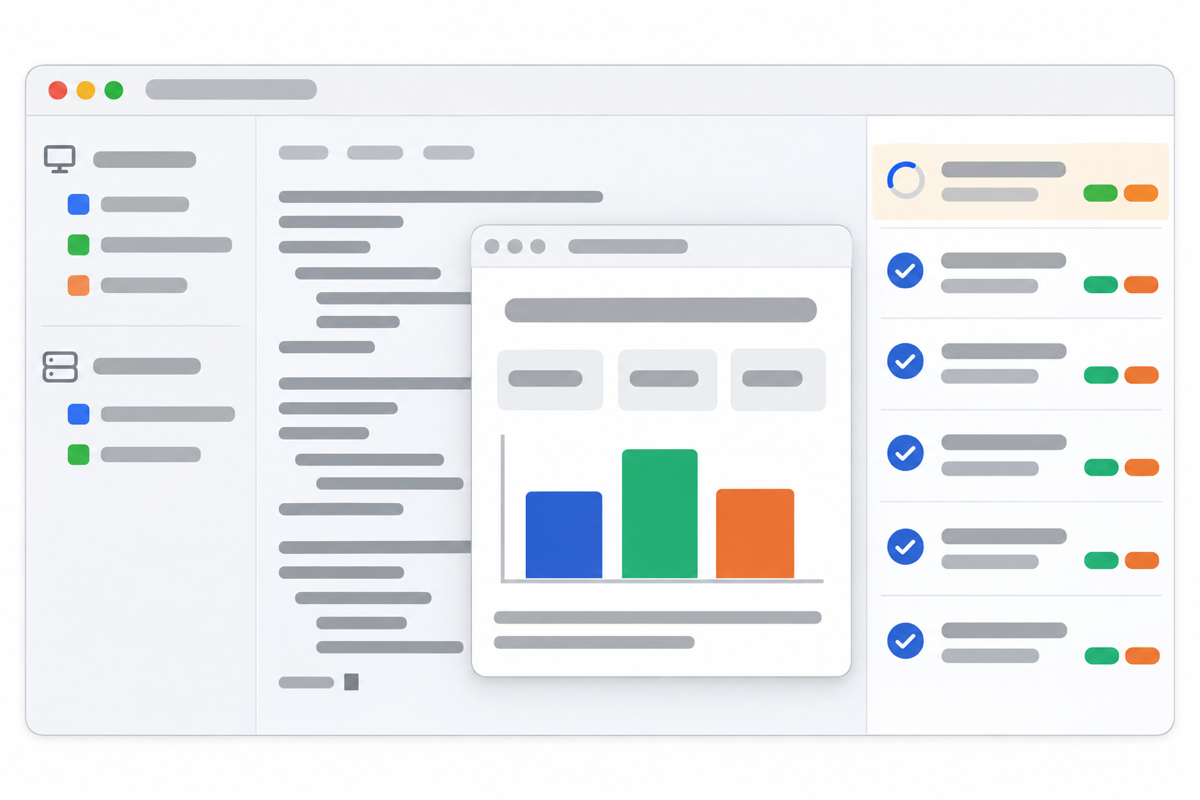
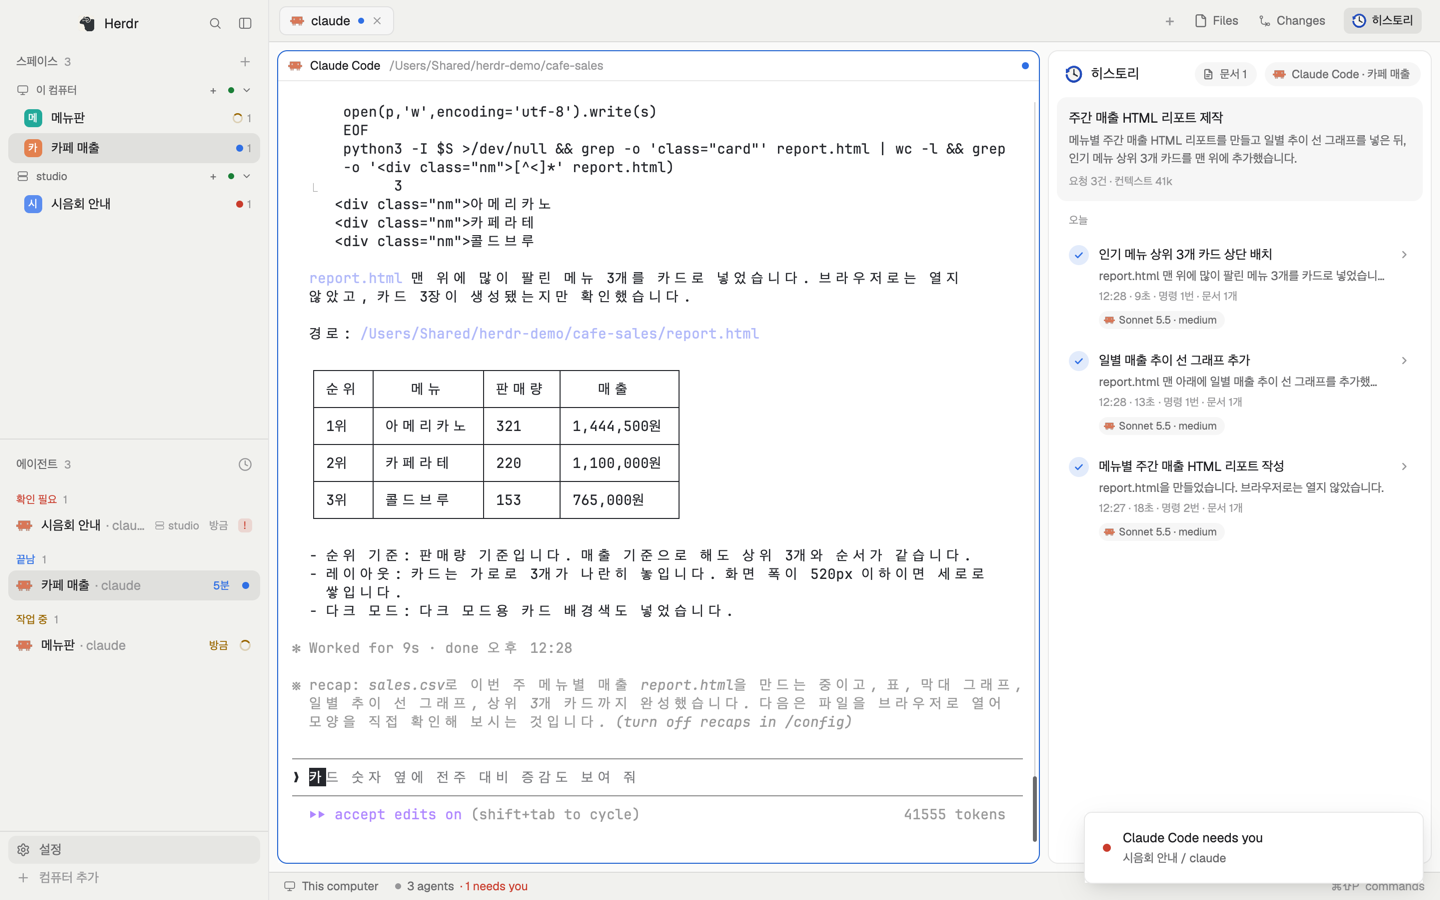
docs: README 를 실제 화면 녹화로 다시 정리
- 맨 위 그림과 기능 일러스트 4장을 지우고, 데모 폴더에서 찍은 GIF 3개(히스토리 · 요청 창 · 문서 보기)와 사이드바 그림을 넣음
- preview.png 를 실제 화면으로 바꿈
- README · CHANGELOG 문장을 다시 다듬음

diff --git a/README.md b/README.md
@@ -1,12 +1,8 @@
-<p align="center">
-  <img src="docs/images/hero.jpg" alt="히스토리 패널, 문서 보기, 한글 사이드바를 더한 Herdr 창" width="100%">
-</p>
-
 <h1 align="center">herdr-history-ko</h1>
 
 <p align="center">
-  Herdr 에서 에이전트에게 맡긴 일을 요청 단위로 되짚고,<br>
-  에이전트가 연 문서를 그 자리에서 보고, 여러 컴퓨터의 에이전트를 한 사이드바에서 나눠 보는 한국어 키트입니다.
+  터미널에서 코딩 에이전트를 돌리는 macOS 앱 Herdr에 히스토리 패널, 문서 보기, 한글 사이드바를 더하는 키트입니다.<br>
+  에이전트에게 맡긴 일을 요청별로 확인하고, 에이전트가 연 문서를 앱 안에서 바로 볼 수 있습니다.
 </p>
 
 <p align="center">
@@ -25,8 +21,6 @@
   <a href="#문제-해결">문제 해결</a>
 </p>
 
-> 이 문서의 그림은 기능을 설명하는 일러스트입니다. 실제 화면의 글자와 세부 모양은 다릅니다.
-
 ## 빠른 시작
 
 ```sh
@@ -35,47 +29,61 @@ cd herdr-history-ko
 sh install.sh
 ```
 
-설치가 끝나면 Herdr 의 레이아웃이 `history-sidebar` 로 바뀝니다. 원래 쓰던 레이아웃으로는 Herdr 에서 `ctrl-shift-l` 로 돌아갑니다.
-Herdr 안의 에이전트에게 「이 폴더의 install.sh 로 설치해 줘」라고 맡겨도 됩니다.
+설치가 끝나면 Herdr의 레이아웃이 `history-sidebar`로 바뀝니다. Herdr에서 `ctrl-shift-l`을 누르면 원래 쓰던 레이아웃으로 돌아갑니다.
+
+직접 명령을 입력하지 않고 Herdr의 에이전트에게 「이 폴더의 install.sh 로 설치해 줘」라고 맡겨도 됩니다.
 
 ## 기능
 
+아래 그림은 공개용 데모 폴더(`/Users/Shared/herdr-demo`)에서 찍은 실제 화면입니다. 「studio」는 녹화를 위해 같은 Mac에 따로 띄운 `hc`를 Herdr에 다른 컴퓨터로 추가한 것입니다. 문서와 기록을 가져오는 방식은 실제 원격 컴퓨터와 같습니다.
+
 ### 히스토리 패널
 
-<img src="docs/images/history.jpg" alt="요청 목록과 요청 창" width="100%">
+<img src="docs/media/history.gif" alt="매출 보고서 요청이 히스토리에 추가되고 상태가 바뀌는 화면" width="1440">
 
-지금 보고 있는 에이전트에게 보낸 요청을 하나씩 나눠 보여 줍니다. Claude Code · Codex · Antigravity 대화를 읽고, Herdr 에 추가한 다른 컴퓨터의 에이전트도 그 컴퓨터에서 읽어 옵니다.
+「카페 매출」 스페이스에서 Claude Code에 매출 보고서를 요청하고 상태 변화를 살펴보는 모습 (2.5배속)
 
-| 보이는 곳 | 내용 |
-| --- | --- |
-| 요청 줄 | 제목, 상태(진행 중 · 확인 기다림 · 끝남 · 중단함 · 멈춤), 보낸 시각, 걸린 시간, 명령 수, 바꾼 파일 수, 문서 수 |
-| 누가 했나 | 그 에이전트의 모델과 effort, 함께 일한 서브에이전트 · Codex · Antigravity · Claude |
-| 요청 창 | 요약 · 답변 · 진행 과정 · 바꾼 파일 · 보낸 글 탭, 실행 · 수정 · 읽기 비중을 보여 주는 작업 흐름 |
-| 맨 위 | 이 대화의 주제와 지금까지 한 일 한 문장, 요청 수, 컨텍스트 크기 |
+패널에는 지금 보고 있는 에이전트에게 보낸 요청이 한 줄씩 쌓입니다. Claude Code, Codex, Antigravity 대화를 읽고, Herdr에 추가한 다른 컴퓨터의 기록은 그 컴퓨터에서 가져옵니다.
 
-요청 제목과 요약은 내 컴퓨터의 Claude Code 로 만들고, 보낸 글 원문은 요청 창의 「보낸 글」 탭에만 둡니다.
-패널에서 `↑` `↓` 로 고르고 `Enter` 로 열며, 요청 창에서는 `←` `→` 로 앞뒤 요청을 보고 `Esc` 로 닫습니다.
+요청을 보내면 「진행 중」 항목이 추가되고, 명령 실행 승인을 기다릴 때는 「확인 기다림」으로 바뀝니다. 작업이 끝나면 「끝남」 상태가 되면서 이 컴퓨터의 Claude Code가 만든 제목과 한 줄 요약이 붙습니다.
+
+각 줄에는 제목과 상태 외에 보낸 시각, 걸린 시간, 명령 수, 바꾼 파일 수, 문서 수, 사용한 모델과 effort가 함께 표시됩니다. 상태에는 「중단함」과 「멈춤」도 있습니다. 패널 맨 위에서는 대화 주제와 지금까지 한 일을 정리한 한 문장, 요청 수와 컨텍스트 크기를 확인합니다.
+
+### 요청 창
+
+<img src="docs/media/request.gif" alt="요청 목록에서 요청 창을 열고 앞뒤 요청을 보는 화면" width="1440">
+
+목록에서 요청 하나를 열어 앞뒤 요청을 넘겨 봅니다.
+
+「누가 했나」에는 모델과 effort, 출력 토큰이 나옵니다. 서브에이전트나 Codex, Antigravity, Claude와 함께 일했다면 그 이름도 여기에 나옵니다. 작업 흐름 그래프는 실행, 수정, 읽기의 비중을 보여 줍니다.
+
+세부 내용은 「요약」, 「답변」, 「진행 과정」, 「바꾼 파일」, 「보낸 글」 탭으로 나뉩니다. 「요약」 탭에는 결론, 한 일, 확인한 것, 남은 것이 정리되고, 보낸 글 원문은 「보낸 글」 탭에서만 봅니다.
+
+패널에서는 `↑` `↓`로 요청을 고른 뒤 `Enter`로 열고, 요청 창에서는 `←` `→`로 앞뒤 요청을 오가며 `Esc`로 닫습니다.
 
 ### 문서 보기
 
-<img src="docs/images/docview.jpg" alt="다른 컴퓨터에서 연 문서를 이 컴퓨터의 Herdr 에서 보기" width="100%">
+<img src="docs/media/docview.gif" alt="히스토리의 문서 2 단추로 다른 컴퓨터의 HTML 문서를 여는 화면" width="1440">
 
-에이전트가 「열어 보세요」 한 HTML 문서를 Herdr 안에서 바로 봅니다. 원격 Mac 같은 다른 컴퓨터의 에이전트가 연 문서도 이 컴퓨터로 가져와 보여 주므로, 그쪽 화면을 따로 열지 않아도 됩니다.
+다른 컴퓨터 「studio」의 에이전트가 만든 `checklist.html`과 `index.html`을 히스토리 위쪽 「문서 2」 단추로 여는 과정
 
-- **문서로 잡는 것**: 에이전트가 `open` 으로 연 파일, 에이전트가 만들거나 고친 HTML, 답변에 적은 경로(지금 있는 파일만). HTML · SVG · PNG · JPG · GIF · WebP.
-- **여는 곳**: 히스토리 머리의 「문서 N」, 요청 창의 「문서」 단추, 명령 `request-log.docs`.
-- **빠르게 보기**: 한 번 본 문서는 바로 뜨고, 그사이 바뀌었으면 새로 그립니다. 다음 문서는 미리 그려 둡니다.
-- **브라우저로 열기**: 링크를 누르거나 입력해야 하는 문서는 이 컴퓨터의 브라우저로 엽니다.
+에이전트가 연 문서를 Herdr 안에서 바로 봅니다. 원격 Mac 같은 다른 컴퓨터의 문서도 이 컴퓨터로 가져와 보여 주며, HTML, SVG, PNG, JPG, GIF, WebP 형식을 열 수 있습니다. 에이전트가 `open`으로 연 파일과 만들거나 고친 HTML, 답변에 적힌 경로 중 실제 파일이 있는 항목이 문서 목록에 들어갑니다.
+
+문서 창은 히스토리 위쪽의 「문서 N」이나 요청 창의 「문서」 단추, `request-log.docs` 명령으로 엽니다. 창 위쪽에는 컴퓨터 이름, 문서 경로, 「브라우저로 열기」 단추가 놓여 있습니다.
+
+미리 그려 두었거나 한 번 본 문서는 바로 뜨고, 파일이 바뀌면 다시 그립니다. 링크를 누르거나 내용을 입력해야 할 때는 「브라우저로 열기」로 이 컴퓨터의 브라우저에서 띄울 수 있습니다.
 
 ### 한글 사이드바
 
-<img src="docs/images/sidebar.jpg" alt="컴퓨터별로 나뉜 스페이스와 에이전트 정렬 메뉴" width="100%">
+<img src="docs/media/sidebar.png" width="268" align="right" alt="컴퓨터별 스페이스와 급한 순서로 정렬한 에이전트 목록">
 
-Herdr 의 스페이스 · 에이전트 목록을 한글로 바꾸고, 여러 컴퓨터를 쓸 때 어느 컴퓨터의 것인지 한눈에 보이게 정리했습니다.
+「이 컴퓨터」 아래에 메뉴판과 카페 매출, 「studio」 아래에 시음회 안내가 묶인 사이드바
 
-- 「이 컴퓨터」와 Herdr 에 추가한 다른 컴퓨터 아래에 스페이스가 들여 쓰여 나옵니다. 컴퓨터 줄을 누르면 접힙니다.
-- 에이전트 정렬은 세 가지입니다. **급한 순서**(확인 필요 · 끝남 · 작업 중 · 쉬는 중), **스페이스별**, **컴퓨터별**.
-- 화면 공유가 켜진 다른 Mac 줄에는 화면 공유를 여는 단추가 생깁니다.
+Herdr의 스페이스와 에이전트 목록을 한글로 보여 줍니다. 각 스페이스는 소속 컴퓨터 아래에 들여 써서 구분하고, 컴퓨터 줄을 누르면 그 아래 목록이 접힙니다. 화면 공유를 켠 다른 Mac 줄에는 화면 공유를 여는 단추가 붙습니다.
+
+에이전트는 「급한 순서」, 「스페이스별」, 「컴퓨터별」로 정렬할 수 있습니다. 「급한 순서」로 정렬하면 「확인 필요」, 「끝남」, 「작업 중」 차례로 보이고, 쉬는 중인 에이전트는 그다음에 놓입니다.
+
+<br clear="all">
 
 ### 레이아웃
 
@@ -88,10 +96,10 @@ Herdr 의 스페이스 · 에이전트 목록을 한글로 바꾸고, 여러 컴
 
 | 항목 | 쓰는 곳 | 없을 때 |
 | --- | --- | --- |
-| macOS 의 Herdr 앱 | 전체 (0.1.16 에서 확인) | 설치가 멈춥니다 |
+| macOS의 Herdr 앱 | 전체 기능(0.1.16에서 확인) | 설치가 멈춥니다 |
 | Python 3.9 이상 | 대화 읽기, 문서 가져오기 | 설치가 멈춥니다 |
-| Xcode 명령줄 도구 | 문서 보기에서 문서를 그림으로 그리기 | 문서 창에 설치 방법이 나옵니다 (`xcode-select --install`) |
-| Claude Code 로그인 | 요청 제목과 요약 | 패널은 열리고, 제목 자리에 에이전트가 한 말의 첫 문장이 나옵니다 |
+| Xcode 명령줄 도구 | 문서 보기에서 문서 그리기 | 문서 창에 설치 방법이 나옵니다(`xcode-select --install`) |
+| Claude Code 로그인 | 요청 제목과 요약 | 패널은 열립니다. 제목 자리에는 에이전트가 한 말의 첫 문장이 나옵니다. |
 
 ## 설치 · 업데이트 · 지우기
 
@@ -104,77 +112,80 @@ Herdr 의 스페이스 · 에이전트 목록을 한글로 바꾸고, 여러 컴
 | 같은 이름의 모드가 이미 있을 때 바꾸기 | `sh install.sh --force` |
 | 지우기 | `sh install.sh --remove` |
 
-- 설치할 때마다 바꾸기 전의 파일을 임시 폴더에 복사해 두고 그 위치를 알려 줍니다.
-- 지우기는 이 키트가 설치한 모드와 레이아웃만 지웁니다. 지금 화면이 이 키트의 레이아웃이면 먼저 Herdr 기본 레이아웃으로 돌려놓습니다.
-- 바뀐 내용은 [CHANGELOG.md](CHANGELOG.md) 에 버전마다 적습니다.
+설치할 때마다 기존 파일을 임시 폴더에 복사하며, 복사한 위치는 설치 과정에서 알려 줍니다.
+
+`sh install.sh --remove`는 이 키트가 설치한 모드와 레이아웃만 지웁니다. 키트의 레이아웃을 쓰고 있다면 먼저 Herdr 기본 레이아웃으로 되돌립니다.
+
+버전별 변경 사항은 [CHANGELOG.md](CHANGELOG.md)에 있습니다.
 
 ## 설정
 
-레이아웃 파일(`~/.config/herdr-app/layouts/history-sidebar.json`)의 `"id": "requests"` 블록에 `props` 를 줍니다.
+레이아웃 파일(`~/.config/herdr-app/layouts/history-sidebar.json`)에서 `"id": "requests"` 블록에 `props`를 넣습니다.
 
 ```json
 { "mod": "request-log", "props": { "summaries": true, "model": "sonnet", "browser": "Safari" } }
 ```
 
-| 값 | 뜻 | 기본 |
+| 설정 | 설명 | 기본값 |
 | --- | --- | --- |
-| `summaries` | `false` 면 Claude 로 제목 · 요약을 만들지 않습니다 | `true` |
-| `model` | 제목 · 요약에 쓸 Claude 모델 | `sonnet` |
-| `browser` | 문서 보기의 「브라우저로 열기」가 쓸 앱 이름 | 기본 브라우저 |
+| `summaries` | `false`로 두면 Claude로 제목과 요약을 만들지 않습니다. | `true` |
+| `model` | 제목과 요약을 만드는 데 쓸 Claude 모델 | `sonnet` |
+| `browser` | 문서 보기에서 「브라우저로 열기」를 눌렀을 때 쓸 앱 이름 | 기본 브라우저 |
 
 ## 동작 방식과 개인 정보
 
-| 항목 | 내용 |
-| --- | --- |
-| 읽는 파일 | 내 컴퓨터에 남은 Claude Code · Codex · Antigravity 대화 기록. 처음에는 끝 32MB 만, 그다음에는 늘어난 부분만 읽습니다 |
-| 적어 두는 곳 | `~/.cache/herdr-request-log` (정리한 기록), `~/.cache/herdr-doc-view` (가져온 문서) |
-| Claude 로 보내는 것 | 요청 글과 답변의 앞부분. 내 컴퓨터의 `claude` 명령을 구독 로그인으로 부르고, API 키는 쓰지 않습니다 |
-| 실행하는 명령 | 어느 대화인지 찾느라 `ps` · `lsof`, 다른 컴퓨터를 읽느라 `hc`, 화면 공유 단추를 보일지 정하느라 `ssh -G` · `nc` |
-| 문서 보기 | 문서와 같은 폴더의 그림 · CSS · 글꼴을 가져와 macOS 의 WebKit 으로 그립니다. 문서가 웹 글꼴 같은 인터넷 주소를 부르면 브라우저로 열 때처럼 그 주소에 접속합니다 |
+이 컴퓨터에 저장된 Claude Code, Codex, Antigravity 대화 기록을 읽되, 처음에는 파일 끝에서 32MB까지만 읽고 그 뒤부터는 새로 쌓인 부분만 이어서 읽습니다. 정리한 기록은 `~/.cache/herdr-request-log`에, 가져온 문서는 `~/.cache/herdr-doc-view`에 저장합니다.
+
+제목과 요약을 만들 때는 요청 글과 답변의 앞부분을 Claude에 보냅니다. 별도의 API 키는 쓰지 않고, 이 컴퓨터의 `claude` 명령을 실행해 Claude Code 구독 로그인으로 인증합니다.
+
+에이전트가 어느 대화를 열었는지는 `ps`와 `lsof`로 찾고, 다른 컴퓨터의 기록을 읽을 때는 `hc`를 씁니다. 화면 공유 단추를 표시할지는 `ssh -G`와 `nc`로 확인합니다.
+
+문서 보기는 문서와 같은 폴더에 있는 그림, CSS, 글꼴도 함께 가져와 macOS의 WebKit으로 그립니다. 문서 안에 웹 글꼴처럼 인터넷 주소로 된 리소스가 있으면 브라우저에서 열 때와 마찬가지로 그 주소에 접속합니다.
 
 ## 문제 해결
 
 <details>
-<summary>문서 창에 「Xcode 명령줄 도구가 필요합니다」가 나와요</summary>
+<summary>문서 창에 「Xcode 명령줄 도구가 필요합니다」가 나옵니다</summary>
 
-터미널에서 `xcode-select --install` 로 설치한 뒤 문서 창의 「다시 해 보기」를 누릅니다.
+터미널에서 `xcode-select --install`을 실행한 뒤, 설치가 끝나면 문서 창의 「다시 해 보기」를 누릅니다.
 </details>
 
 <details>
-<summary>요청 제목 대신 에이전트가 한 말의 첫 문장이 나와요</summary>
+<summary>요청 제목 대신 에이전트가 한 말의 첫 문장이 나옵니다</summary>
 
-이 컴퓨터에 Claude Code 로그인이 없거나 사용 한도에 걸린 경우입니다. 패널 맨 위에 까닭이 나오고, 로그인하거나 한도가 풀리면 다시 만듭니다.
+이 컴퓨터에서 Claude Code에 로그인하지 않았거나 사용 한도에 걸린 경우입니다. 이유는 패널 맨 위에 표시되며, 로그인하거나 한도가 풀리면 제목을 다시 만듭니다.
 </details>
 
 <details>
-<summary>「어느 대화인지 가려내지 못했습니다」가 나와요</summary>
+<summary>「어느 대화인지 가려내지 못했습니다」가 나옵니다</summary>
 
-같은 폴더에서 Codex 를 여럿 띄우는 등 대화가 여럿 겹친 경우입니다. 잘못된 대화를 보여 주지 않으려고 고르지 않습니다.
+같은 폴더에서 Codex를 여러 개 띄우면 대화가 겹칠 수 있습니다. 어느 대화인지 확실하지 않을 때는 패널에 표시하지 않습니다.
 </details>
 
 <details>
-<summary>설치가 「이 키트가 설치하지 않은 같은 이름이 이미 있습니다」에서 멈춰요</summary>
+<summary>설치 중 「이 키트가 설치하지 않은 같은 이름이 이미 있습니다」가 나옵니다</summary>
 
-예전에 따로 받은 히스토리 패키지가 있는 경우입니다. `sh install.sh --force` 로 바꾸면 됩니다. 바꾸기 전의 파일은 임시 폴더에 복사해 둡니다.
+예전에 따로 받은 히스토리 패키지가 남아 있으면 설치가 멈춥니다. `sh install.sh --force`로 덮어쓸 수 있으며, 기존 파일은 임시 폴더에 복사해 둡니다.
 </details>
 
 <details>
-<summary>Herdr 를 업데이트했는데 사이드바가 그대로예요</summary>
+<summary>Herdr를 업데이트했는데 사이드바가 그대로입니다</summary>
 
-한글 사이드바는 Herdr 0.1.16 의 기본 사이드바를 복제해 고친 것이라 Herdr 업데이트가 들어오지 않습니다. 맞춰야 할 변경이 생기면 이 키트의 새 버전으로 냅니다. 기본 사이드바를 쓰려면 `history` 레이아웃으로 바꿉니다.
+한글 사이드바는 Herdr 0.1.16의 기본 사이드바를 복사해 고친 모드여서 Herdr 업데이트가 반영되지 않습니다. 반영할 변경이 생기면 이 키트의 새 버전으로 냅니다. Herdr 기본 사이드바를 쓰려면 `history` 레이아웃으로 바꾸면 됩니다.
 </details>
 
 ## 만드는 사람에게
 
-내 Herdr 에서 고친 것을 이 저장소로 옮길 때는 다음 순서로 합니다.
+로컬 Herdr에서 고친 모드는 다음 순서로 저장소에 옮깁니다.
 
-1. `sh tools/export.sh` 로 `~/.config/herdr-app` 의 모드를 저장소로 옮기고, 개인 경로가 섞였는지 검사합니다.
-2. `VERSION` 을 올리고 `CHANGELOG.md` 에 바뀐 것을 적습니다.
-3. 커밋한 뒤 `git tag v<버전>` 으로 표시하고 올립니다.
+1. `sh tools/export.sh`를 실행합니다. 이 명령은 `~/.config/herdr-app`의 모드를 저장소로 옮기고 개인 경로가 섞였는지 검사합니다.
+2. `VERSION`을 올리고, 바뀐 내용을 `CHANGELOG.md`에 적습니다.
+3. 커밋한 뒤 `git tag v<버전>`으로 태그를 붙여 올립니다.
 
-다른 에이전트가 빈 폴더에서 같은 것을 만들 수 있도록 [RECIPE.md](RECIPE.md) 에 화면 · 동작 · 구성을 적어 두었습니다.
+다른 에이전트가 빈 폴더에서 같은 키트를 만들 수 있도록 화면, 동작, 구성을 [RECIPE.md](RECIPE.md)에 적어 두었습니다.
 
 ## 바탕과 라이선스
 
-히스토리 패널은 [herunan/herdr-over9k](https://github.com/herunan/herdr-over9k) 의 Timeline(MIT)을 바탕으로 했습니다(`mods/request-log/LICENSE.over9k`).
-이 저장소는 [MIT 라이선스](LICENSE)입니다. 문서의 그림은 Codex 의 이미지 생성으로 만들었습니다.
+히스토리 패널은 [herunan/herdr-over9k](https://github.com/herunan/herdr-over9k)의 Timeline(MIT)을 바탕으로 만들었습니다. 원본 라이선스는 `mods/request-log/LICENSE.over9k`에 있습니다.
+
+이 저장소는 [MIT 라이선스](LICENSE)를 따릅니다.

diff --git a/CHANGELOG.md b/CHANGELOG.md
@@ -2,17 +2,17 @@
 
 ## 0.2.0 · 2026-11-23
 
-- 문서 보기: 에이전트가 연 HTML 문서(SVG · 그림도)를 Herdr 안에서 크게 봄. 다른 컴퓨터에서 연 문서도 가져와 보임
-  - 히스토리 머리의 「문서 N」, 요청 창의 「문서」 단추, 명령 `request-log.docs`
-  - 문서를 그리려면 Xcode 명령줄 도구가 필요함
-- 히스토리: 요청 줄에 「문서 N개」. 기록 읽는 방식이 바뀌어 처음 한 번 대화를 다시 읽음(큰 대화도 예전 요청을 잃지 않게 더 거슬러 읽음)
+- 문서 보기에서 에이전트가 연 HTML 문서, SVG, 그림을 Herdr 안에서 크게 봅니다. 다른 컴퓨터에서 연 문서도 가져옵니다.
+  - 히스토리 위쪽의 「문서 N」이나 요청 창의 「문서」 단추로 문서를 엽니다. `request-log.docs` 명령으로도 엽니다.
+  - 문서를 그리려면 Xcode 명령줄 도구가 필요합니다.
+- 히스토리의 요청 줄에 「문서 N개」가 나옵니다. 긴 대화에서도 예전 요청을 놓치지 않도록 더 앞부분까지 읽습니다. 기록을 읽는 방식이 바뀌어 처음 한 번은 대화를 다시 읽습니다.
 
 ## 0.1.0 · 2026-11-23
 
 처음 낸 버전입니다.
 
-- 히스토리 패널: 요청마다 제목 · 걸린 시간 · 명령 수 · 바꾼 파일 · 누가 했는지(모델 · effort), 누르면 요약 창
-- Claude Code · Codex · Antigravity(agy) 대화를 읽음. Herdr 에 추가한 다른 컴퓨터의 에이전트도 읽음
-- 한글 사이드바: 컴퓨터 아래 스페이스, 에이전트 정렬 셋(급한 순서 · 스페이스별 · 컴퓨터별), 화면 공유 단추
-- 레이아웃 `history-sidebar`(한글 사이드바 + 히스토리) · `history`(기본 사이드바 + 히스토리)
-- install.sh: 설치 · 업데이트 · 버전 보기 · 지우기, 바꾸기 전 파일을 임시 폴더에 복사
+- 히스토리 패널에 요청 제목, 걸린 시간, 명령 수, 바꾼 파일, 작업한 에이전트의 모델과 effort가 나옵니다. 요청을 누르면 요약 창이 열립니다.
+- Claude Code, Codex, Antigravity(agy) 대화를 읽습니다. Herdr에 추가한 다른 컴퓨터의 에이전트 대화도 읽습니다.
+- 한글 사이드바는 컴퓨터별로 스페이스를 묶어 보여 줍니다. 에이전트 목록은 급한 순서, 스페이스별, 컴퓨터별로 정렬합니다. 화면 공유 단추도 있습니다.
+- 히스토리가 들어간 레이아웃은 두 가지입니다. `history-sidebar`는 한글 사이드바를 쓰고 `history`는 기본 사이드바를 씁니다.
+- 설치, 업데이트, 버전 확인, 삭제에 `install.sh`를 씁니다. 바꾸기 전 파일은 임시 폴더에 복사합니다.
